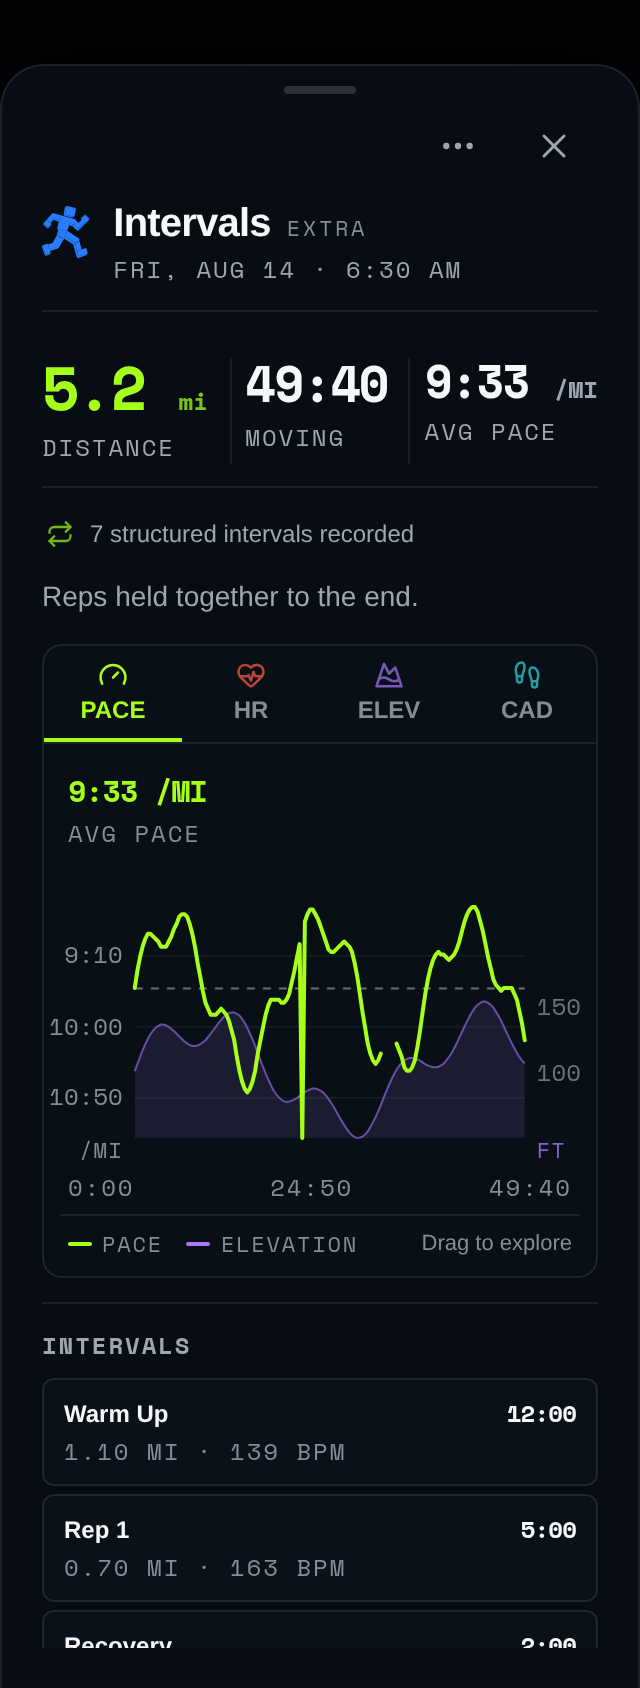
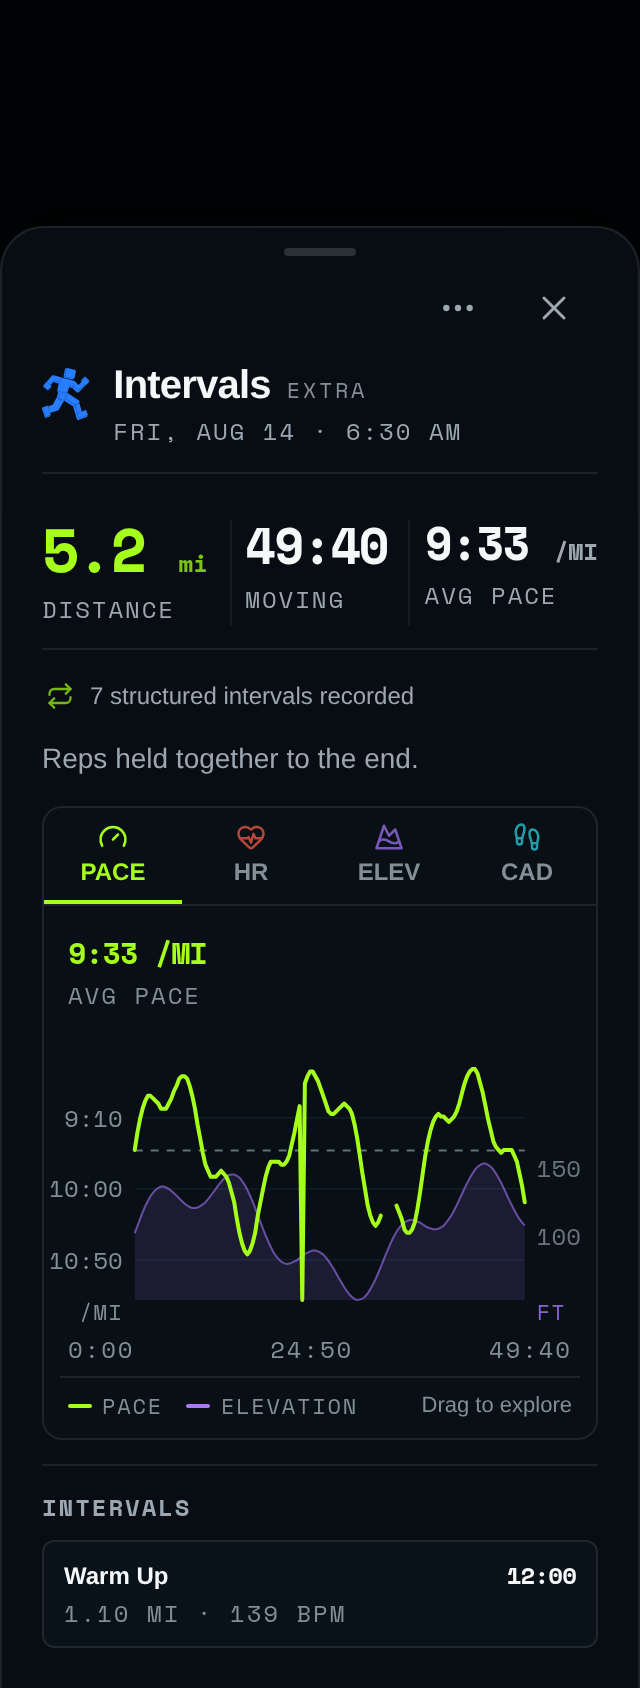
Hold the sheet still between tabs, and name the type the title omits
Two things from owner review of the preview.

**The sheet resized when the runner changed metric.** Heart Rate carries the
zone rows and is about 240px taller than the other three tabs, so on a screen
tall enough for the sheet to fit its content the whole panel grew — measured at
390x1600, 1104px on Pace against 1340px on Heart Rate, with the panel's top edge
jumping 236px and taking the chart out from under the runner's finger. Run
Detail's panel is now pinned the way `.sheet--instrument` has always been
pinned, for the same reason: four tabs are four views of one run, not four
sheets. It is pinned only where there is an Analysis module to switch between,
so a run whose source sent no stream still gets a sheet its own size (242px for
the aggregate-only fixture) rather than a wall of empty surface. A browser
without `:has()` keeps today's content-sized behaviour.

**A run headed with its workout's own name stated no activity type.** Removing
the `EASY` chip was right where the title is the classification — `Easy Run`
over `EASY` said it twice — but a run headed `Yasso 800s` says nothing about the
kind of running, and after that change the mark's colour was the only thing
carrying it. That is too little for `Race`, whose colour is very nearly the
plain text colour, which makes re-tagging a named plan run look like it did
nothing. `identity.typeLabel` now states the type beside the title exactly where
[…]

diff --git a/src/styles/components.css b/src/styles/components.css
@@ -450,6 +450,22 @@
   .sheet--instrument .sheet__panel {
     height: 90%;
   }
+
+  /*
+   * Run Detail is the same argument. Its four tabs are four views of one run,
+   * and Heart Rate is about 240px taller than the others because it carries the
+   * zone rows — so on a screen tall enough for the sheet to fit its content,
+   * changing tabs resized the whole panel and moved the chart out from under
+   * the runner's finger.
+   *
+   * Pinned only when there is an Analysis module to switch between: a run whose
+   * source sent no stream is genuinely short, and giving it a near-full-screen
+   * sheet would be a wall of empty surface. A browser without `:has()` keeps
+   * the content-sized behaviour it has today rather than breaking.
+   */
+  .sheet--run-detail:has(.run-analysis) .sheet__panel {
+    height: 90%;
+  }
 }
 
 @media (min-width: 768px) {
@@ -464,6 +480,12 @@
     border-radius: var(--radius-lg);
     box-shadow: 0 24px 48px rgba(0, 0, 0, 0.45);
     animation: sheet-fade-in 200ms ease-out;
+  }
+
+  /* The same rule on a centred dialog, where a resize moves both edges at once
+     and is more distracting still. */
+  .sheet--run-detail:has(.run-analysis) .sheet__panel {
+    height: min(88vh, 860px);
   }
 }
 
@@ -4913,6 +4935,18 @@ textarea.run-input {
  *    is a heading a person reads; everything measured is set in the data face.
  */
 
+/*
+ * One colour per kind of running, resolved once on the identity itself, so the
+ * run's mark and the word for its type cannot drift apart.
+ */
+.run-identity { --run-type-color: var(--text-muted); }
+.run-identity[data-type="easy"] { --run-type-color: var(--easy); }
+.run-identity[data-type="intervals"] { --run-type-color: var(--intervals); }
+.run-identity[data-type="simulation"] { --run-type-color: var(--simulation); }
+.run-identity[data-type="long"] { --run-type-color: var(--long); }
+.run-identity[data-type="cross"] { --run-type-color: var(--cross); }
+.run-identity[data-type="race"] { --run-type-color: var(--race); }
+
 .run-identity {
   display: grid;
   grid-template-columns: auto minmax(0, 1fr);
@@ -4933,15 +4967,8 @@ textarea.run-input {
   display: grid;
   place-items: center;
   padding-top: 2px;
-  color: var(--text-muted);
+  color: var(--run-type-color);
 }
-
-.run-identity__mark[data-type="easy"] { color: var(--easy); }
-.run-identity__mark[data-type="intervals"] { color: var(--intervals); }
-.run-identity__mark[data-type="simulation"] { color: var(--simulation); }
-.run-identity__mark[data-type="long"] { color: var(--long); }
-.run-identity__mark[data-type="cross"] { color: var(--cross); }
-.run-identity__mark[data-type="race"] { color: var(--race); }
 
 .run-identity__lines {
   display: grid;
@@ -4998,6 +5025,10 @@ textarea.run-input {
 /* A planned run is the one status worth a colour: it is the answer to "did this
    count towards the plan?", which is the question a runner is actually asking. */
 .run-identity__status[data-tone="plan"] { color: var(--accent); }
+
+/* The type, when the title did not state it, reads in the mark's own colour, so
+   the word and the glyph are visibly the same fact. */
+.run-identity__status[data-tone="type"] { color: var(--run-type-color); }
 
 /* The linked workout, on its own line: context for the run, not a tag. */
 .run-identity__plan {

diff --git a/src/features/workout-detail/runDetailStyling.test.ts b/src/features/workout-detail/runDetailStyling.test.ts
@@ -100,13 +100,18 @@ describe("Run Detail layout", () => {
     // No ring: a circle around the runner made a glyph into a badge, and at
     // heading size the badge outweighed the title beside it.
     expect(componentsCss).toMatch(
-      /\.run-identity__mark\s*\{(?![^}]*border-radius)[^}]*color: var\(--text-muted\)/s,
+      /\.run-identity__mark\s*\{(?![^}]*border-radius)[^}]*color: var\(--run-type-color\)/s,
     );
+    // One colour per kind of running, resolved once so the mark and the word
+    // for the type cannot drift apart.
     for (const type of ["easy", "intervals", "simulation", "long", "cross", "race"]) {
-      expect(componentsCss, `missing mark colour for ${type}`).toMatch(
-        new RegExp(`\\.run-identity__mark\\[data-type="${type}"\\] \\{ color: var\\(--${type}\\); \\}`),
+      expect(componentsCss, `missing type colour for ${type}`).toMatch(
+        new RegExp(`\\.run-identity\\[data-type="${type}"\\] \\{ --run-type-color: var\\(--${type}\\); \\}`),
       );
     }
+    expect(componentsCss).toMatch(
+      /\.run-identity__status\[data-tone="type"\] \{ color: var\(--run-type-color\); \}/,
+    );
   });
 
   it("puts the run's status beside its title instead of under it as a chip", () => {
@@ -154,6 +159,25 @@ describe("Run Detail layout", () => {
     );
     // The identity that replaces it is the largest type after the result.
     expect(componentsCss).toMatch(/\.run-identity__title\s*\{[^}]*font-size: clamp\(20px/s);
+  });
+
+  it("holds the sheet still while the runner changes metric", () => {
+    /*
+     * Heart Rate carries the zone rows and is around 240px taller than the
+     * other three tabs. On a screen tall enough for the sheet to fit its
+     * content that resized the whole panel on every tab change, moving the
+     * chart out from under the runner's finger.
+     *
+     * The height is pinned only where there is an Analysis module to switch
+     * between: a run whose source sent no stream is genuinely short, and a
+     * near-full-screen sheet for it would be a wall of empty surface.
+     */
+    expect(componentsCss).toMatch(
+      /@media \(max-width: 767px\)[\s\S]*?\.sheet--run-detail:has\(\.run-analysis\) \.sheet__panel \{\s*height: 90%;/,
+    );
+    expect(componentsCss).toMatch(
+      /@media \(min-width: 768px\)[\s\S]*?\.sheet--run-detail:has\(\.run-analysis\) \.sheet__panel \{\s*height: min\(88vh, 860px\);/,
+    );
   });
 
   it("defines one colour per metric, in tokens, and reads it through a single custom property", () => {

diff --git a/src/features/workout-detail/SourceRunDetail.tsx b/src/features/workout-detail/SourceRunDetail.tsx
@@ -233,7 +233,7 @@ export function SourceRunDetail({
   return (
     <div className="run-result-detail">
       {identity && (
-        <header className="run-identity">
+        <header className="run-identity" data-type={identity.activityType ?? "unclassified"}>
           {/*
             The STACK runner, in one colour: the run's own type colour, or the
             plain text colour for history nobody has classified. The full-colour
@@ -241,11 +241,7 @@ export function SourceRunDetail({
             the size of a heading, and a ring around it made it a badge rather
             than a glyph — the type is what the colour says here.
           */}
-          <span
-            className="run-identity__mark"
-            data-type={identity.activityType ?? "unclassified"}
-            aria-hidden="true"
-          >
+          <span className="run-identity__mark" aria-hidden="true">
             <StackMark size={26} monochrome />
           </span>
           <div className="run-identity__lines">
@@ -256,6 +252,16 @@ export function SourceRunDetail({
             */}
             <div className="run-identity__heading">
               <h3 className="run-identity__title">{identity.title}</h3>
+              {/*
+                The kind of running, only where the title does not already say
+                it — a run headed with its workout's own name states no type,
+                and the mark's colour alone is too little to carry it.
+              */}
+              {identity.typeLabel && (
+                <span className="run-identity__status machine-label" data-tone="type">
+                  {identity.typeLabel}
+                </span>
+              )}
               <span className="run-identity__status machine-label" data-tone={identity.status.tone}>
                 {identity.status.label}
               </span>

diff --git a/src/features/workout-detail/runIdentity.test.ts b/src/features/workout-detail/runIdentity.test.ts
@@ -96,6 +96,33 @@ describe("run identity", () => {
     expect(Object.keys(identity)).not.toContain("chips");
   });
 
+  it("states the kind of running only where the title does not", () => {
+    /*
+     * `Easy Run` over an `EASY` chip is what this pass removed. But a run headed
+     * with its workout's own name states no type at all, and there the mark's
+     * colour is the only thing carrying it — too little for `Race`, whose colour
+     * is very nearly the plain text colour. So the type appears exactly where
+     * the title dropped it.
+     */
+    expect(runIdentityFromRunLog(accepted, null, null).typeLabel).toBeNull();
+    expect(runIdentityFromRunLog(accepted, workout, null).typeLabel).toBeNull();
+
+    const named = runIdentityFromRunLog(
+      accepted,
+      { ...workout, title: "Yasso 800s" },
+      null,
+    );
+    expect(named.title).toBe("Yasso 800s");
+    expect(named.typeLabel).toBe("Easy");
+  });
+
+  it("does not restate the type when the title already is the type", () => {
+    // `Easy Run` over an `EASY` chip is what this pass removed.
+    const identity = runIdentityFromRunLog(accepted, null, null);
+    expect(identity.title).toBe("Easy Run");
+    expect(identity.typeLabel).toBeNull();
+  });
+
   it("marks a run with no scheduled workout as extra rather than as plan", () => {
     expect(runIdentityFromRunLog(accepted, null, null).status)
       .toEqual({ label: "Extra", tone: "extra" });

diff --git a/src/features/workout-detail/runIdentity.ts b/src/features/workout-detail/runIdentity.ts
@@ -64,6 +64,17 @@ export interface RunIdentity {
    * run's mark instead.
    */
   status: RunIdentityStatus;
+  /**
+   * The kind of running, in words — but only when the title does not already
+   * say it.
+   *
+   * A run headed `Easy Run` needs no `EASY` beside it. A run headed with its
+   * workout's own name — `Yasso 800s`, `Boston Tune-Up` — states no type at
+   * all, and there the mark's colour is the only thing carrying it: too little
+   * for `Race`, whose colour is very nearly the plain text colour. So the type
+   * appears exactly where the title dropped it, and nowhere else.
+   */
+  typeLabel: string | null;
 }
 
 /**
@@ -180,6 +191,9 @@ export function runIdentityFromRunLog(
     status: workout
       ? { label: "Plan", tone: "plan" }
       : { label: "Extra", tone: "extra" },
+    typeLabel: titleSource === "planned-workout"
+      ? WORKOUT_TYPE_LABEL[runLog.activityType]
+      : null,
   };
 }
 
@@ -207,5 +221,7 @@ export function runIdentityFromRunnerRun(run: RunnerRun): RunIdentity {
     startTimeLabel: formatStartTime(run.startTimeLocal),
     planLine: null,
     status: { label: "History", tone: "history" },
+    // Nobody has classified this run, so there is no type to state.
+    typeLabel: null,
   };
 }

diff --git a/docs/RUN_DETAIL_PRODUCT_SPEC.md b/docs/RUN_DETAIL_PRODUCT_SPEC.md
@@ -168,6 +168,12 @@ place on every run and at no cost in vertical space. What remains is the run's
 its weight and without a pill around it: it answers a different question from
 the title and is a footnote to it, not a peer.
 
+The one exception is a run headed with its **workout's own name**. `Yasso 800s`
+states no type at all, and there the mark's colour is the only thing carrying
+it — too little for `Race`, whose colour is very nearly the plain text colour.
+So `identity.typeLabel` states the type beside the title exactly where the title
+dropped it, in the mark's own colour, and is null everywhere else.
+
 ### The result, and nothing beside it
 
 No panel: hairline rules above and below, thin dividers between, and the
@@ -199,6 +205,16 @@ row, no clipping, no horizontal scroll, `/mi` intact.
 One deterministic insight may follow: a count of the structured groups the
 source named. It is omitted when there are none, and STACK does not state a
 verdict on the run.
+
+### The sheet does not resize when the metric changes
+
+Heart Rate carries the zone rows and is around 240px taller than the other three
+tabs. On a screen tall enough for the sheet to fit its content, that resized the
+whole panel on every tab change and moved the chart out from under the runner's
+finger. Run Detail's panel is therefore pinned — 90% on a phone, the same rule
+`.sheet--instrument` has always used, and `min(88vh, 860px)` on a centred dialog
+— **only when there is an Analysis module to switch between**. A run whose source
+sent no stream is genuinely short and keeps a sheet its own size.
 
 ### Analysis is the centre
 
